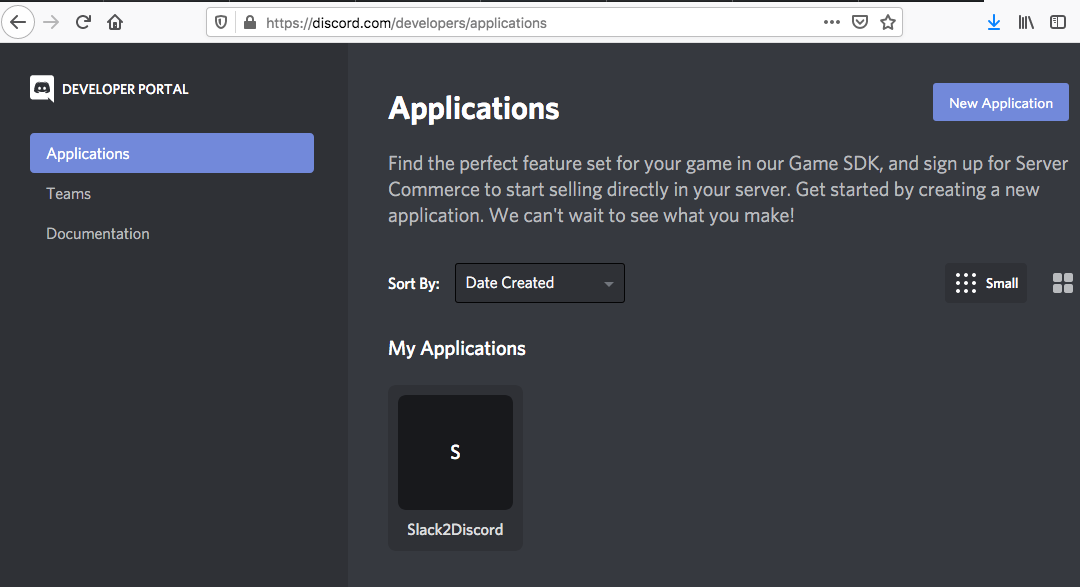
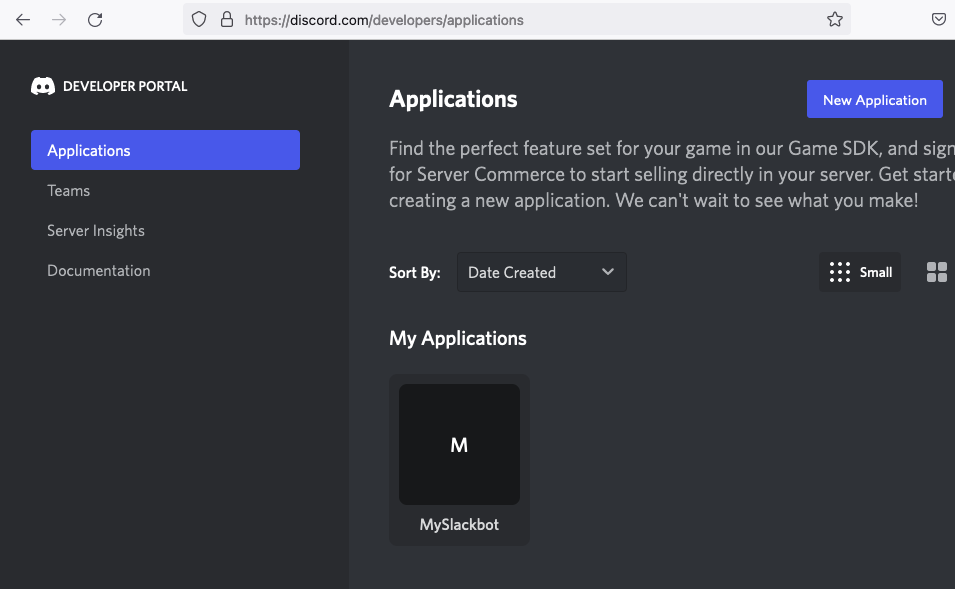
docs: add Discord Bot name new validation rule

diff --git a/README.md b/README.md
@@ -30,6 +30,8 @@ Create a new Application.
 
 And then create a new Bot for this Application.
 
+**IMPORTANT!** Recent changes on Discord API invalidate Bots with "discord" (case insensitive) in their names! Make sure to create Bot with valid name.
+
 ![alt create_bot](/rsc/imgs/create_bot.png)
 
 Click on the new bot and setup Gateway Intents and enable Message Content Intent option
